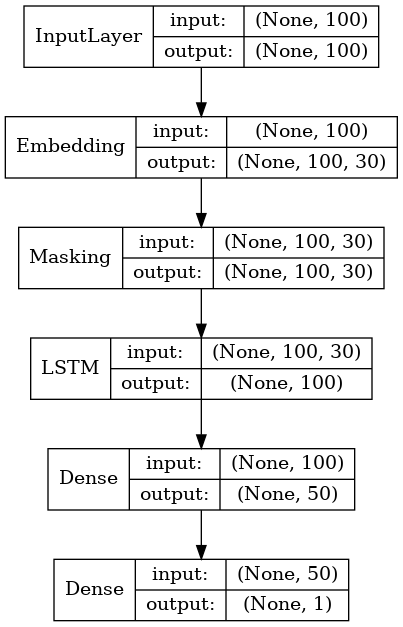
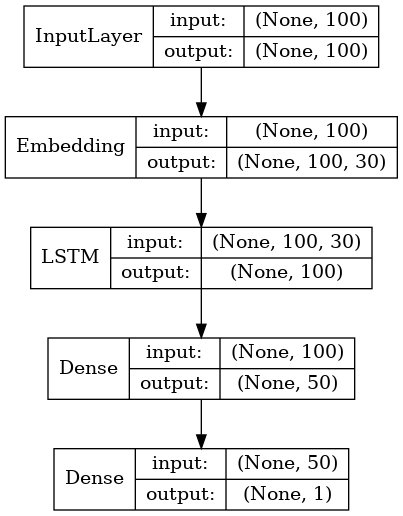
Moved masking to embedding layer

Changed region(s): [[0.0, 0.0, 1.0, 0.9922]]

diff --git a/test.py b/test.py
@@ -62,12 +62,11 @@ X_train, X_test, y_train, y_test = train_test_split(X_seq, y_raw, test_size=test
 #
 main_input = Input(shape=(100,), dtype='int32', name='main_input')  #Create input for sequence
 embedding = Embedding(output_dim=30, input_dim=X_voc_size,          #Create embedding layer with 2D output
-                    input_length=100, name="layer1")(main_input) 
-masking = Masking(mask_value=0)(embedding)
+                    input_length=100, name="layer1", mask_zero=True)(main_input) 
 lstm_out = LSTM(100, kernel_regularizer=l2(0.05),                   #And pass this output to the LSTM
                     recurrent_regularizer=l2(0.05),
                     bias_regularizer=l2(0.05),
-                    name="layer2")(masking)
+                    name="layer2")(embedding)
 dense = Dense(50, kernel_regularizer=l2(0.05),                   #And pass values to a dense layer
                   bias_regularizer=l2(0.05),
                   name="layer3")(lstm_out)
